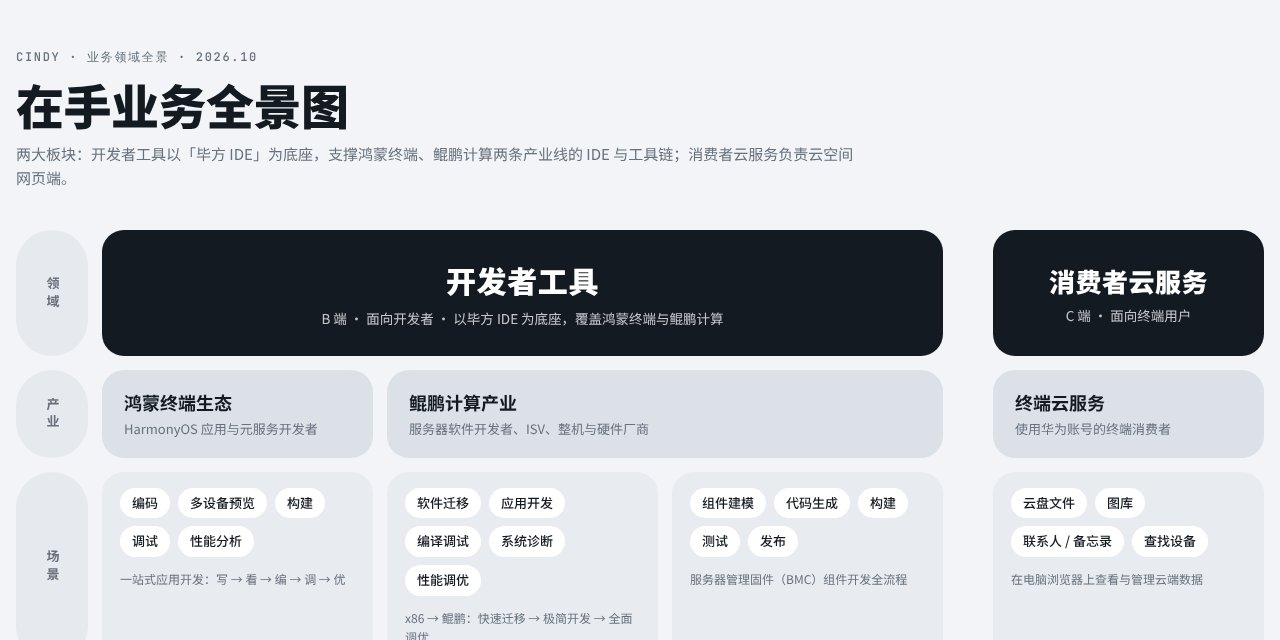
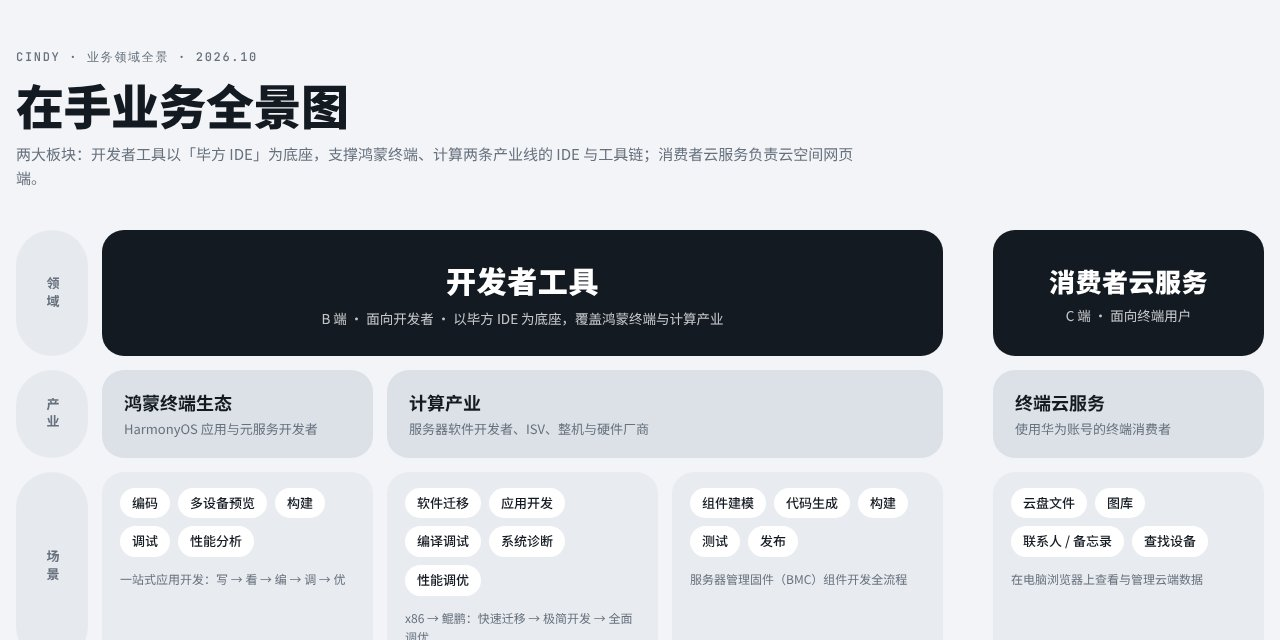
全景图：「鲲鹏计算产业」改为「计算产业」
Claude-Session: https://claude.ai/code/session_016L8byhbgGDrMXiHgMPJmHg

diff --git a/业务全景图/在手业务全景图.html b/业务全景图/在手业务全景图.html
@@ -113,7 +113,7 @@ tbody tr td:first-child{border-radius:12px 0 0 12px} tbody tr td:last-child{bord
   <header>
     <div class="eyebrow">Cindy · 业务领域全景 · 2026.10</div>
     <h1>在手业务全景图</h1>
-    <p>两大板块：开发者工具以「毕方 IDE」为底座，支撑鸿蒙终端、鲲鹏计算两条产业线的 IDE 与工具链；消费者云服务负责云空间网页端。</p>
+    <p>两大板块：开发者工具以「毕方 IDE」为底座，支撑鸿蒙终端、计算两条产业线的 IDE 与工具链；消费者云服务负责云空间网页端。</p>
   </header>
 
   <section class="house" aria-label="业务全景房子图">
@@ -121,7 +121,7 @@ tbody tr td:first-child{border-radius:12px 0 0 12px} tbody tr td:last-child{bord
     <div class="lab">领域</div>
     <div class="roof dev">
       <h2>开发者工具</h2>
-      <p>B 端 · 面向开发者 · 以毕方 IDE 为底座，覆盖鸿蒙终端与鲲鹏计算</p>
+      <p>B 端 · 面向开发者 · 以毕方 IDE 为底座，覆盖鸿蒙终端与计算产业</p>
     </div>
     <div class="roof cons k6">
       <h2>消费者云服务</h2>
@@ -131,7 +131,7 @@ tbody tr td:first-child{border-radius:12px 0 0 12px} tbody tr td:last-child{bord
     <!-- 产业 -->
     <div class="lab">产业</div>
     <div class="ind h"><b>鸿蒙终端生态</b><span>HarmonyOS 应用与元服务开发者</span></div>
-    <div class="ind c span2"><b>鲲鹏计算产业</b><span>服务器软件开发者、ISV、整机与硬件厂商</span></div>
+    <div class="ind c span2"><b>计算产业</b><span>服务器软件开发者、ISV、整机与硬件厂商</span></div>
     <div class="ind k k6"><b>终端云服务</b><span>使用华为账号的终端消费者</span></div>
 
     <!-- 场景 -->
@@ -238,8 +238,8 @@ tbody tr td:first-child{border-radius:12px 0 0 12px} tbody tr td:last-child{bord
         <thead><tr><th>项目</th><th>产业</th><th>层级</th><th>交互</th><th>视觉</th></tr></thead>
         <tbody>
           <tr><td><span class="dot" style="background:var(--harmony)"></span>DevEco Studio</td><td>鸿蒙终端</td><td>产品</td><td>薛楠、安成林</td><td>钱佳丽</td></tr>
-          <tr><td><span class="dot" style="background:var(--compute)"></span>Kunpeng DevKit</td><td>鲲鹏计算</td><td>产品</td><td class="tbd">待补充</td><td>王研娟</td></tr>
-          <tr><td><span class="dot" style="background:var(--compute)"></span>openUBMC Studio</td><td>鲲鹏计算</td><td>产品</td><td>庄芷苡（协作）</td><td>王研娟</td></tr>
+          <tr><td><span class="dot" style="background:var(--compute)"></span>Kunpeng DevKit</td><td>计算产业</td><td>产品</td><td class="tbd">待补充</td><td>王研娟</td></tr>
+          <tr><td><span class="dot" style="background:var(--compute)"></span>openUBMC Studio</td><td>计算产业</td><td>产品</td><td>庄芷苡（协作）</td><td>王研娟</td></tr>
           <tr><td><span class="dot" style="background:var(--cloud)"></span>云空间网页端</td><td>终端云服务</td><td>产品</td><td>薛楠、周海</td><td>葛华全</td></tr>
           <tr><td><span class="dot" style="background:var(--accent)"></span>毕方 IDE</td><td>跨产业</td><td>底座</td><td colspan="2">对接：软件 IDE 实验室<span class="tbd">（设计协作人待补充）</span></td></tr>
         </tbody>
